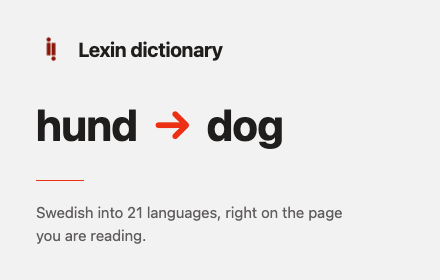
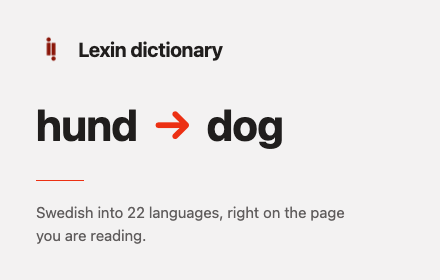
feat: add support for Tigrinya language and update related documentation (#75)
* feat: add support for Tigrinya language and update related documentation

* docs: update store listing images with 22 languages

Changed region(s): [[0.2955, 0.7429, 0.7977, 0.8]]

diff --git a/tests/e2e/smoke.spec.ts b/tests/e2e/smoke.spec.ts
@@ -122,12 +122,12 @@ test.describe("Extension Smoke Tests", () => {
     await expect(page.locator(".lxNavBrand")).toContainText("Options");
 
     const rows = await languageRows(page);
-    expect(await rows.count()).toBe(21);
+    expect(await rows.count()).toBe(22);
 
     // One default, N visible: a row carries one checkbox and either the chip or the
     // button - never the radio-plus-checkbox pair that made the old page a puzzle.
     await expect(page.locator('#languageRows input[type="radio"]')).toHaveCount(0);
-    await expect(page.locator('#languageRows input[type="checkbox"]')).toHaveCount(21);
+    await expect(page.locator('#languageRows input[type="checkbox"]')).toHaveCount(22);
     await expect(page.locator("#languageRows .lxChip", { hasText: "Default" })).toHaveCount(1);
 
     // The old sidebar and its bulk checkbox are gone.
@@ -150,7 +150,7 @@ test.describe("Extension Smoke Tests", () => {
 
     // Folded, so an unaccented query still finds the accented name.
     await page.locator("#languageSearch").fill("");
-    await expect(page.locator("#languageRows tr")).toHaveCount(21);
+    await expect(page.locator("#languageRows tr")).toHaveCount(22);
 
     await page.close();
   });
@@ -209,7 +209,7 @@ test.describe("Extension Smoke Tests", () => {
       .locator('input[type="checkbox"]')).toBeChecked();
 
     await page.locator("#enableAll").click();
-    await expect(page.locator('#languageRows input[type="checkbox"]:checked')).toHaveCount(21);
+    await expect(page.locator('#languageRows input[type="checkbox"]:checked')).toHaveCount(22);
 
     await page.close();
   });
@@ -844,8 +844,8 @@ test.describe("Extension Smoke Tests", () => {
 
   test("languages added since the last version should be enabled on upgrade", async ({ popupPage }) => {
     // Rewind storage to what a user of an older build would have: a hand-picked enabled list and
-    // no knownLanguages key. The next popup must pick up Ukrainian without resurrecting the
-    // languages this user turned off.
+    // no knownLanguages key. The next popup must pick up everything shipped since that build -
+    // Ukrainian and Tigrinya - without resurrecting the languages this user turned off.
     const seedPage = await popupPage();
     await ExtensionHelpers.waitForLanguagesLoaded(seedPage);
     await seedPage.evaluate(async () => {
@@ -865,12 +865,13 @@ test.describe("Extension Smoke Tests", () => {
     const offered = await page.locator('[role="option"]').allInnerTexts();
 
     expect(offered).toContain("Ukrainian");
+    expect(offered).toContain("Tigrinya");
     expect(offered).toContain("Russian");
     expect(offered).toContain("English");
     // Languages this user had disabled must stay disabled
     expect(offered).not.toContain("Swedish");
     expect(offered).not.toContain("Turkish");
-    expect(offered.length).toBe(3);
+    expect(offered.length).toBe(4);
 
     await page.close();
   });

diff --git a/tests/unit/LanguageManagerTests.ts b/tests/unit/LanguageManagerTests.ts
@@ -17,7 +17,7 @@ describe("LanguageManager", () => {
 
     it("should return all languages", () => {
         const languages = languageManager.getLanguages();
-        expect(languages.length).toBe(21);
+        expect(languages.length).toBe(22);
     });
 
     describe("enabled languages", () => {
@@ -123,7 +123,7 @@ describe("LanguageManager", () => {
 
             const known = (await storage.getItem("knownLanguages")).split(",");
             expect(known).toEqual(expect.arrayContaining(["swe_ukr", "swe_swe", "swe_eng"]));
-            expect(known.length).toBe(21);
+            expect(known.length).toBe(22);
         });
 
         it("should not duplicate entries when initialized repeatedly", async () => {
@@ -133,7 +133,11 @@ describe("LanguageManager", () => {
             const manager = await createUpgradedManager();
 
             expect(await storage.getItem("enabledLanguages")).toBe(afterFirst);
-            expect((await manager.getEnabledLanguages()).length).toBe(3);
+            // No entry twice. Asserted rather than counted: how many languages the
+            // migration adds depends on how many have shipped since the legacy list,
+            // which grows, and duplication is what this test is actually about.
+            const enabled = (await manager.getEnabledLanguages()).map((lang) => lang.value);
+            expect(enabled).toEqual(Array.from(new Set(enabled)));
         });
 
         it("should keep a language disabled after the migration has run", async () => {
@@ -151,7 +155,7 @@ describe("LanguageManager", () => {
             await manager.waitForInitialization();
 
             expect(await manager.getEnabledLanguages()).toEqual(manager.getLanguages());
-            expect((await freshStorage.getItem("knownLanguages")).split(",").length).toBe(21);
+            expect((await freshStorage.getItem("knownLanguages")).split(",").length).toBe(22);
         });
     });
 

diff --git a/tests/unit/LexinDictionaryTests.ts b/tests/unit/LexinDictionaryTests.ts
@@ -18,7 +18,7 @@ describe("LexinDictionary", () => {
 
     it("should return supported languages", () => {
         const languages = dictionary.getSupportedLanguages();
-        expect(languages.length).toBe(20);
+        expect(languages.length).toBe(21);
     });
 
     it("should check if language is supported", () => {
@@ -134,6 +134,26 @@ describe("LexinDictionary", () => {
         expect(history[1].translation).toBe("መዝገበ ቃላት");
         expect(history[4].word).toBe("succé");
         expect(history[4].translation).toBe("ስኬት");
+    });
+
+    // Tigrinya arrived after the others and rides the same template as Amharic - Lexin
+    // tags its Ge'ez as dir=rtl even though the script runs left to right. Kept as a
+    // regression test because the pattern needed no change to read it, and a later
+    // tightening of the dir=rtl branch would break it silently.
+    it("should parse Tigrinya translation", () => {
+        const tigrinya = "<p><div><b><span lang=sv_SE>hund</span></b> [hun:d] subst.&nbsp;&nbsp;</div>" +
+            "<div><b><span dir=rtl lang=ti_ER>&#4776;&#4621;&#4706;</span></b>&nbsp;&nbsp; </div></p>\n" +
+            "<p><div><b><span lang=sv_SE>ordbok</span></b> subst.&nbsp;&nbsp;</div>" +
+            "<div><b><span dir=rtl lang=ti_ER>&#4632;&#4829;&#4872;&#4704;-&#4675;&#4619;&#4725;</span></b>" +
+            "&nbsp;&nbsp; </div></p>";
+
+        const history = dictionary.parseTranslation(tigrinya, "swe_tir");
+
+        expect(history.length).toBe(2);
+        expect(history[0].word).toBe("hund");
+        expect(history[0].translation).toBe("ከልቢ");
+        expect(history[1].word).toBe("ordbok");
+        expect(history[1].translation).toBe("መዝገበ-ቃላት");
     });
 
     it("should skip entries Lexin leaves untranslated", () => {

diff --git a/tests/unit/DictionaryFactoryTests.ts b/tests/unit/DictionaryFactoryTests.ts
@@ -9,13 +9,13 @@ describe("DictionaryFactory", () => {
 
     it("should return all supported languages", () => {
         const languages = factory.getAllSupportedLanguages();
-        expect(languages.length).toBe(21);
+        expect(languages.length).toBe(22);
     });
 
     describe("getDictionary", () => {
         it("should get Lexikon dictionary", () => {
             const dictionary = factory.getDictionary("swe_swe");
-            expect(dictionary.getSupportedLanguages().length).toBe(20);
+            expect(dictionary.getSupportedLanguages().length).toBe(21);
         });
 
         it("should get Folkets dictionary", () => {

diff --git a/src/scripts/dictionary/LexinDictionary.ts b/src/scripts/dictionary/LexinDictionary.ts
@@ -26,6 +26,7 @@ class LexinDictionary extends DictionaryBase {
             {value: "swe_sdh", text: "South Kurdish"},
             {value: "swe_spa", text: "Spanish"},
             {value: "swe_swe", text: "Swedish"},
+            {value: "swe_tir", text: "Tigrinya"},
             {value: "swe_tur", text: "Turkish"},
             {value: "swe_ukr", text: "Ukrainian"}
         ];

diff --git a/docs/store-listing.md b/docs/store-listing.md
@@ -21,7 +21,7 @@ can be bound to - so the two are edited together.
 Maximum 132 characters. This one is 128.
 
 ```text
-Alt+double-click any Swedish word to see it in your language. 21 dictionaries from Lexin and Folkets Lexikon, right on the page.
+Alt+double-click any Swedish word to see it in your language. 22 dictionaries from Lexin and Folkets Lexikon, right on the page.
 ```
 
 ## Detailed description
@@ -64,7 +64,7 @@ LANGUAGES
 
 Swedish into: Albanian, Amharic, Arabic, Azerbaijani, Bosnian, Croatian, English,
 Finnish, Greek, Northern Kurdish, Pashto, Persian, Russian, Serbian (Latin),
-Serbian (Cyrillic), Somali, South Kurdish, Spanish, Turkish, Ukrainian.
+Serbian (Cyrillic), Somali, South Kurdish, Spanish, Tigrinya, Turkish, Ukrainian.
 
 Plus Lexin's Swedish-to-Swedish dictionary, which explains a word in simple Swedish —
 useful once you'd rather stay in the language than step out of it.
@@ -203,7 +203,7 @@ It is used for nothing else: no recording, no clipboard access, no data collecti
   chosen language, the appearance setting and the lookup history, all local.
 - **Check the language list against `LexinDictionary.getSupportedLanguages()` and
   `FolketsDictionary.getSupportedLanguages()`** whenever a dictionary is added.
-  Currently 20 via Lexin plus English via Folkets.
+  Currently 21 via Lexin plus English via Folkets.
 - **The dictionary hostnames are load-bearing.** They are `lexin.nada.kth.se` and
   `folkets-lexikon.csc.kth.se`, both over HTTPS. The listing carried a dead
   `lexin2.nada.kth.se` for years.

diff --git a/agents.md b/agents.md
@@ -214,7 +214,7 @@ The Lexin Dictionary Chrome Extension is a Swedish-to-multilingual dictionary to
 - Returns `{value: "swe_eng", text: "English"}[]`
 
 **Supported Dictionaries:**
-1. **LexinDictionary:** Primary dictionary supporting 20 languages
+1. **LexinDictionary:** Primary dictionary supporting 21 languages
 2. **FolketsDictionary:** Alternative/fallback dictionary
 
 **Loader:**
@@ -240,12 +240,12 @@ The Lexin Dictionary Chrome Extension is a Swedish-to-multilingual dictionary to
 - Decodes HTML entities before checking
 
 #### `supportedLanguages: ILanguage[]`
-Returns 20 supported languages:
+Returns 21 supported languages:
 - Albanian, Amharic, Arabic, Azerbaijani
 - Bosnian, Croatian, Finnish, Greek
 - Northern Kurdish, South Kurdish, Pashto, Persian
 - Russian, Serbian (Latin & Cyrillic)
-- Somali, Spanish, Swedish, Turkish, Ukrainian
+- Somali, Spanish, Swedish, Tigrinya, Turkish, Ukrainian
 
 #### `parsingRegExp: RegExp`
 - Regex pattern to extract word-translation pairs from HTML response

diff --git a/Readme.md b/Readme.md
@@ -5,7 +5,7 @@ Swedish to other languages dictionary extension for Chrome. Powered by Lexin and
 ## Features
 
 - Translate Swedish words to multiple languages
-- Support for Albanian, Amharic, Arabic, Azerbaijani, Bosnian, Croatian, English, Finnish, Greek, Kurdish, Pashto, Persian, Russian, Serbian, Somali, Spanish, Swedish, Turkish, and Ukrainian
+- Support for Albanian, Amharic, Arabic, Azerbaijani, Bosnian, Croatian, English, Finnish, Greek, Kurdish, Pashto, Persian, Russian, Serbian, Somali, Spanish, Swedish, Tigrinya, Turkish, and Ukrainian
 - Quick translation via Alt + Double Click or Alt + Click, with Ctrl and Shift
   offered as alternatives for desktops that keep Alt for themselves
 - A rebindable keyboard shortcut that translates the selected word
